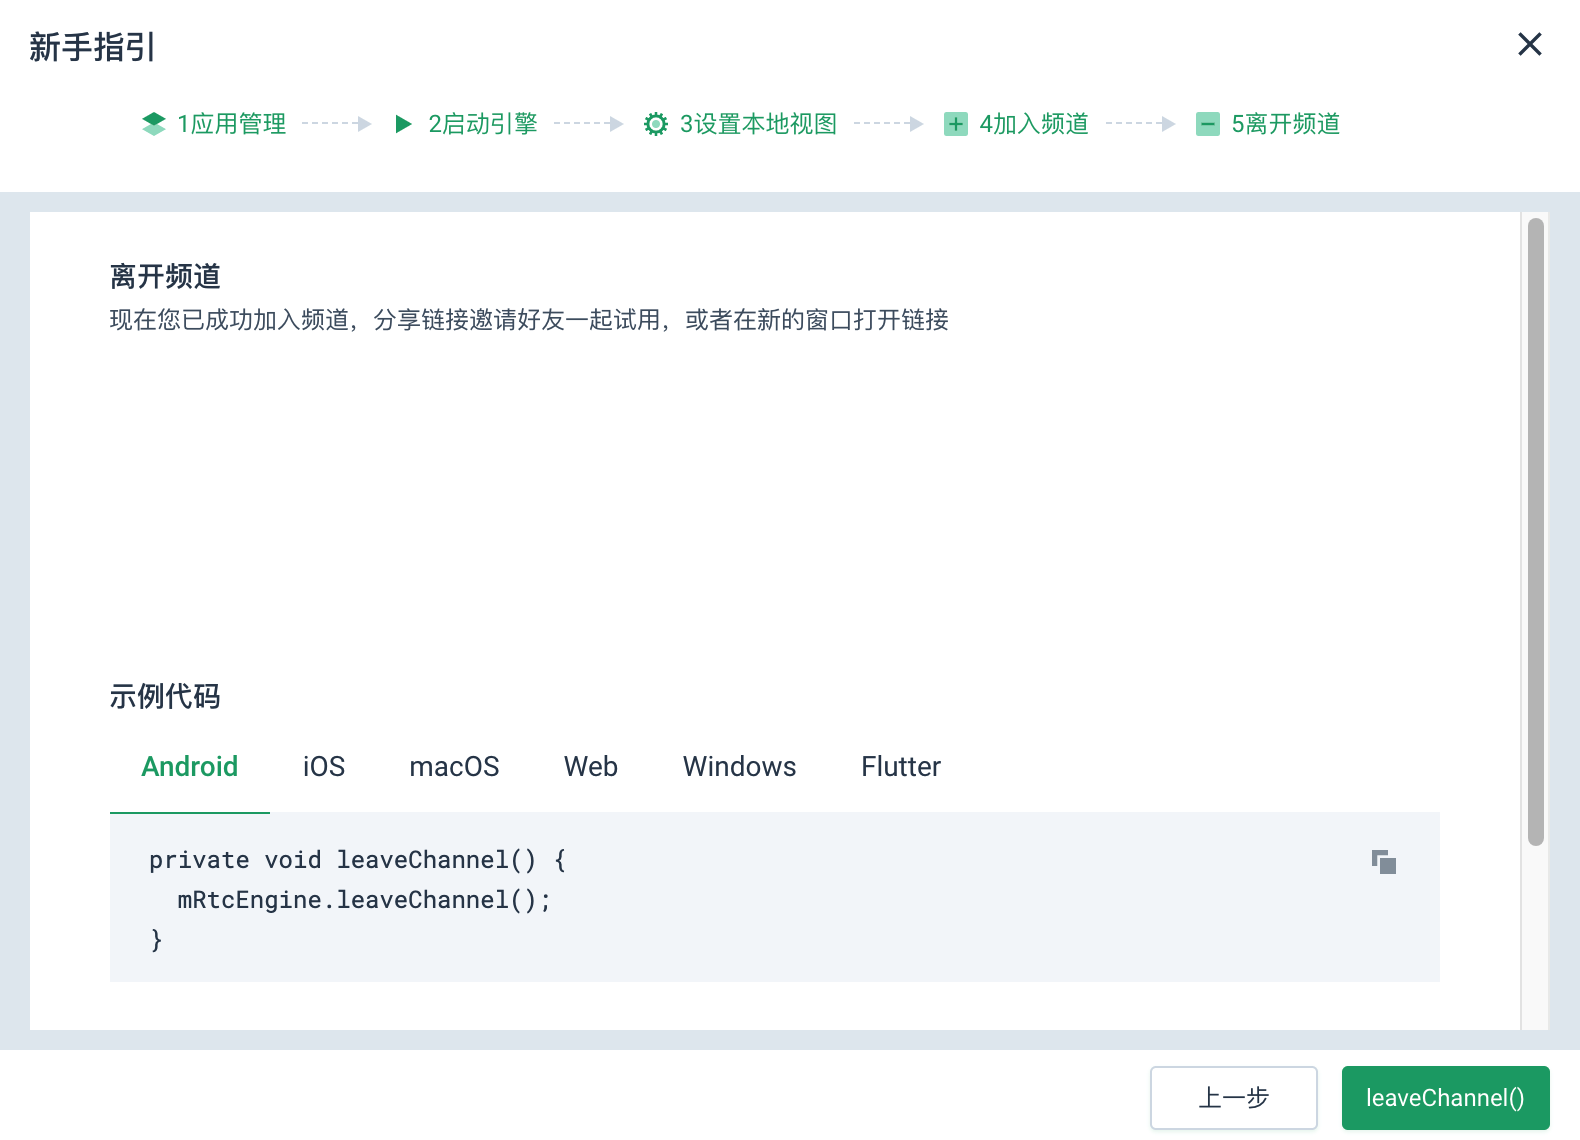
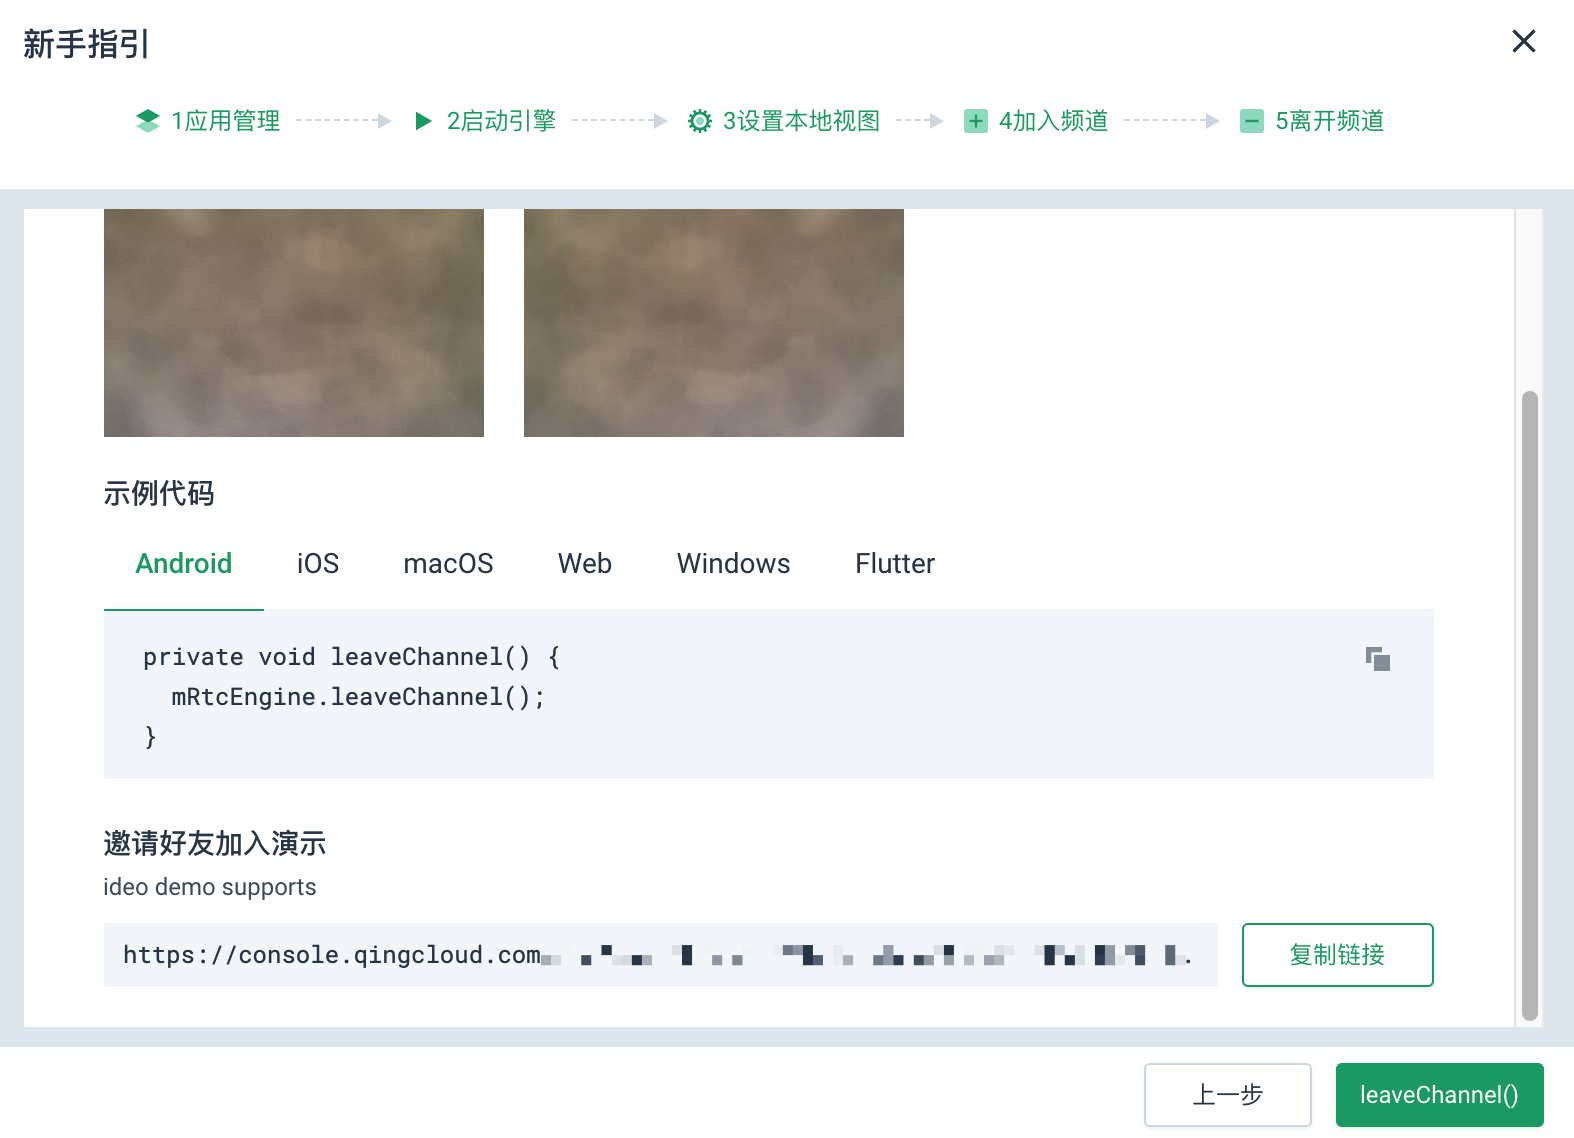
RTC: Support mobile terminal experience (#538)
* rtc: add the experience link description

* rtc:Modify payment method

diff --git a/content/audio_and_video/rtc/qs/10_qs_rtc.md b/content/audio_and_video/rtc/qs/10_qs_rtc.md
@@ -111,23 +111,35 @@ weight: 10
 
 3. 点击 **joinChannel()**，加入频道。
 
-## 步骤六：离开频道
+   加入频道后，您可以将链接分享给好友，邀请好友一起试用。
 
-加入频道后，您可以将链接分享给好友，邀请好友一起试用。
+4. 点击**复制链接**，将链接复制成功后，分享给您的好友。
 
-1. 加入频道后，点击**复制链接**，将链接复制成功后，分享给您的好友。
+   > **说明：**
+   >
+   > 实时音视频 Demo 支持 PC 端和移动端体验音视频通信，您可以将该体验链接发送给任意 PC 端或移动端设备。
 
    ![](../../_images/qs_copy_link.png)
 
-2. 好友打开分享的链接，即可加入频道。
+   好友打开分享的链接，加入频道后，即可成功通信。
 
-   加入频道后，即可成功进行通话。
+   #### **PC 端**
 
    <img src="../../_images/qs_open_link.png" style="zoom:40%;" />
 
-3. 若通话结束，点击 **leaveChannel()**，即可离开频道。
+   #### **移动端**
 
-   ![](../../_images/qs_leave_channel.png)
+   <img src="../../_images/um_demo_mobile.png" style="zoom:40%;" />
+
+## 步骤六：离开频道
+
+- 若通话结束，您可以在页面右下角，点击 **leaveChannel()**，即可离开频道。
+
+  ![](../../_images/qs_leave_channel.png)
+
+- 通过体验链接加入的音视频通信的好友，可点击**离开频道**，离开频道。
+
+  <img src="../../_images/um_leave_demo.png" style="zoom:40%;" />
 
 
 

diff --git a/content/audio_and_video/rtc/news/product_news.md b/content/audio_and_video/rtc/news/product_news.md
@@ -3,17 +3,10 @@ title: "产品动态"
 collapsible: false
 
 product:
-    - time: 2021-10-13
-      title: 支持微信&支付宝购买资源包
-      content: 多用途资源包（互动通信、旁路推流、云录制）可使用微信&支付宝进行扫码支付，轻松便捷是您更方便购买产品资源用量。
-      url: /audio_and_video/rtc/intro/10_rtc
-      tags:
-      - 新功能
-
     - time: 2021-10-12
       title: 新手体验适配移动端
       content: 控制台发起的实时音视频体验链接，您可以发送给任意移动端设备，通过移动端体验音视频通信。
-      url: /audio_and_video/rtc/intro/10_rtc
+      url: /audio_and_video/rtc/qs/10_qs_rtc
       tags:
       - 体验优化
       

diff --git a/content/audio_and_video/rtc/_index.md b/content/audio_and_video/rtc/_index.md
@@ -12,6 +12,10 @@ section1:
 section2:
   title: 用户指南
   children:
+    - title: 动态与公告
+      content: 产品动态
+      url: "/audio_and_video/rtc/news/product_news"
+
     - title: 产品简介
       content: 本节介绍什么是实时音视频 RTC。
       url: "/audio_and_video/rtc/intro/10_rtc"
